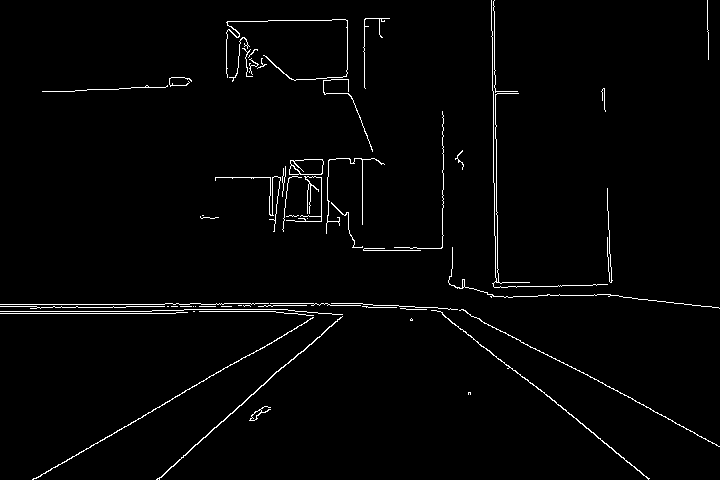
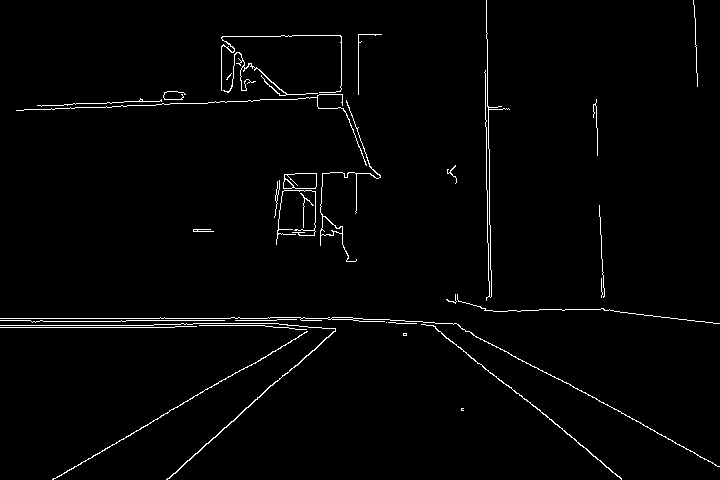
outputting images now

diff --git a/Code/Server/new_lane_keep.py b/Code/Server/new_lane_keep.py
@@ -13,7 +13,7 @@ servo = servo.Servo()
 
 servo.setServoPwm('0',90)
 servo.setServoPwm('1',90)
-crop_ratio = ( 13 / 20 )
+crop_ratio = ( 14 / 20 )
 
 # Read image 
 #image = cv2.imread('/home/mbuffa/test_img/test_images/exit-ramp.jpg', cv2.IMREAD_COLOR) # roadpng is the filename
@@ -169,6 +169,6 @@ cv2.imwrite("masked_edges.png", masked_edges)
 cv2.imwrite("original.png", image)
 cv2.imwrite("gray.png", gray)
 cv2.imwrite("cropped.png", cropped_img)
-cv2.imshow("detected_lines.png", line_segs_img)
-cv2.imshow("lane_lines.png", lane_lines_img)
+cv2.imwrite("detected_lines.png", line_segs_img)
+cv2.imwrite("lane_lines.png", lane_lines_img)
 cv2.waitKey(0)
